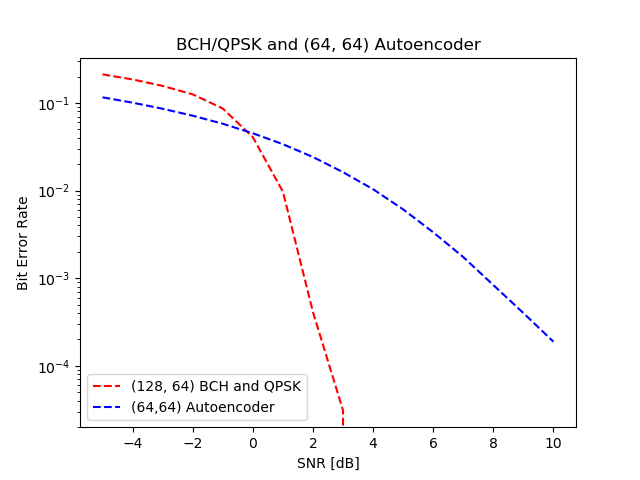
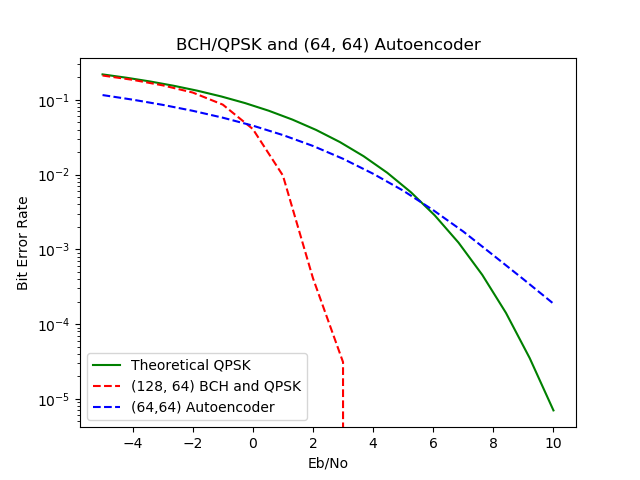
getting ready to add awgn fanciness

diff --git a/gif_maker.py b/gif_maker.py
@@ -9,16 +9,17 @@ from experimental import Net
 FFT_PATH = './results/images/fft_none/'
 FFTshift_PATH = './results/images/fft_shift/'
 CONSTELLATION_PATH = './results/images/constellation/'
+AWGN_PATH = '../awgn_pics/'
 fft_images = []
 fft_shift_images = []
 const_images = []
-
-files = glob.glob(FFT_PATH + '*.png')
-files = sorted(files)
-print(files)
-for filename in files:
-    fft_images.append(imageio.imread(filename))
-imageio.mimsave('./results/gifs/fft_none.gif', fft_images)
+awgn_images = []
+# files = glob.glob(FFT_PATH + '*.png')
+# files = sorted(files)
+# print(files)
+# for filename in files:
+#     fft_images.append(imageio.imread(filename))
+# imageio.mimsave('./results/gifs/fft_none.gif', fft_images)
 
 # files = glob.glob(FFTshift_PATH + '*.png')
 # files = sorted(files)
@@ -33,6 +34,12 @@ imageio.mimsave('./results/gifs/fft_none.gif', fft_images)
 #     const_images.append(imageio.imread(filename))
 # imageio.mimsave('./results/gifs/const.gif', const_images)
 
+files = glob.glob(AWGN_PATH + '*.png')
+files = sorted(files)
+print(files)
+for filename in files:
+    awgn_images.append(imageio.imread(filename))
+imageio.mimsave('./results/gifs/awgn.gif', awgn_images)
 # block_size = 4
 # channel_use = 2
 # USE_CUDA = True

diff --git a/big_bler_plotter.py b/big_bler_plotter.py
@@ -70,16 +70,16 @@ for snr in snrs:
 
 # plt.semilogy(snrs, mean_bers_skip, ls = '-', color = 'b')
 
-# plt.semilogy(np.linspace(-5, 10, num=20), berawgn_bers, ls = '-', color = 'g')
+plt.semilogy(np.linspace(-5, 10, num=20), berawgn_bers, ls = '-', color = 'g')
 plt.semilogy(snrs, bch_bers, ls = '--', color = 'r')
 plt.semilogy(snrs, bigmodel, ls = '--', color = 'b')
 
 legend_strings = []
-# legend_strings.append('Experimental QPSK with Pulseshaping')
+legend_strings.append('Theoretical QPSK')
 legend_strings.append('(128, 64) BCH and QPSK')
 # legend_strings.append('(4,4) Autoencoder, small')
 legend_strings.append('(64,64) Autoencoder')
-plt.xlabel('SNR [dB]')
+plt.xlabel('Eb/No')
 plt.ylabel('Bit Error Rate')
 plt.legend(legend_strings, loc = 'lower left')
 plt.title('BCH/QPSK and (%s, %s) Autoencoder' % (str(channel_use), str(block_size)))
